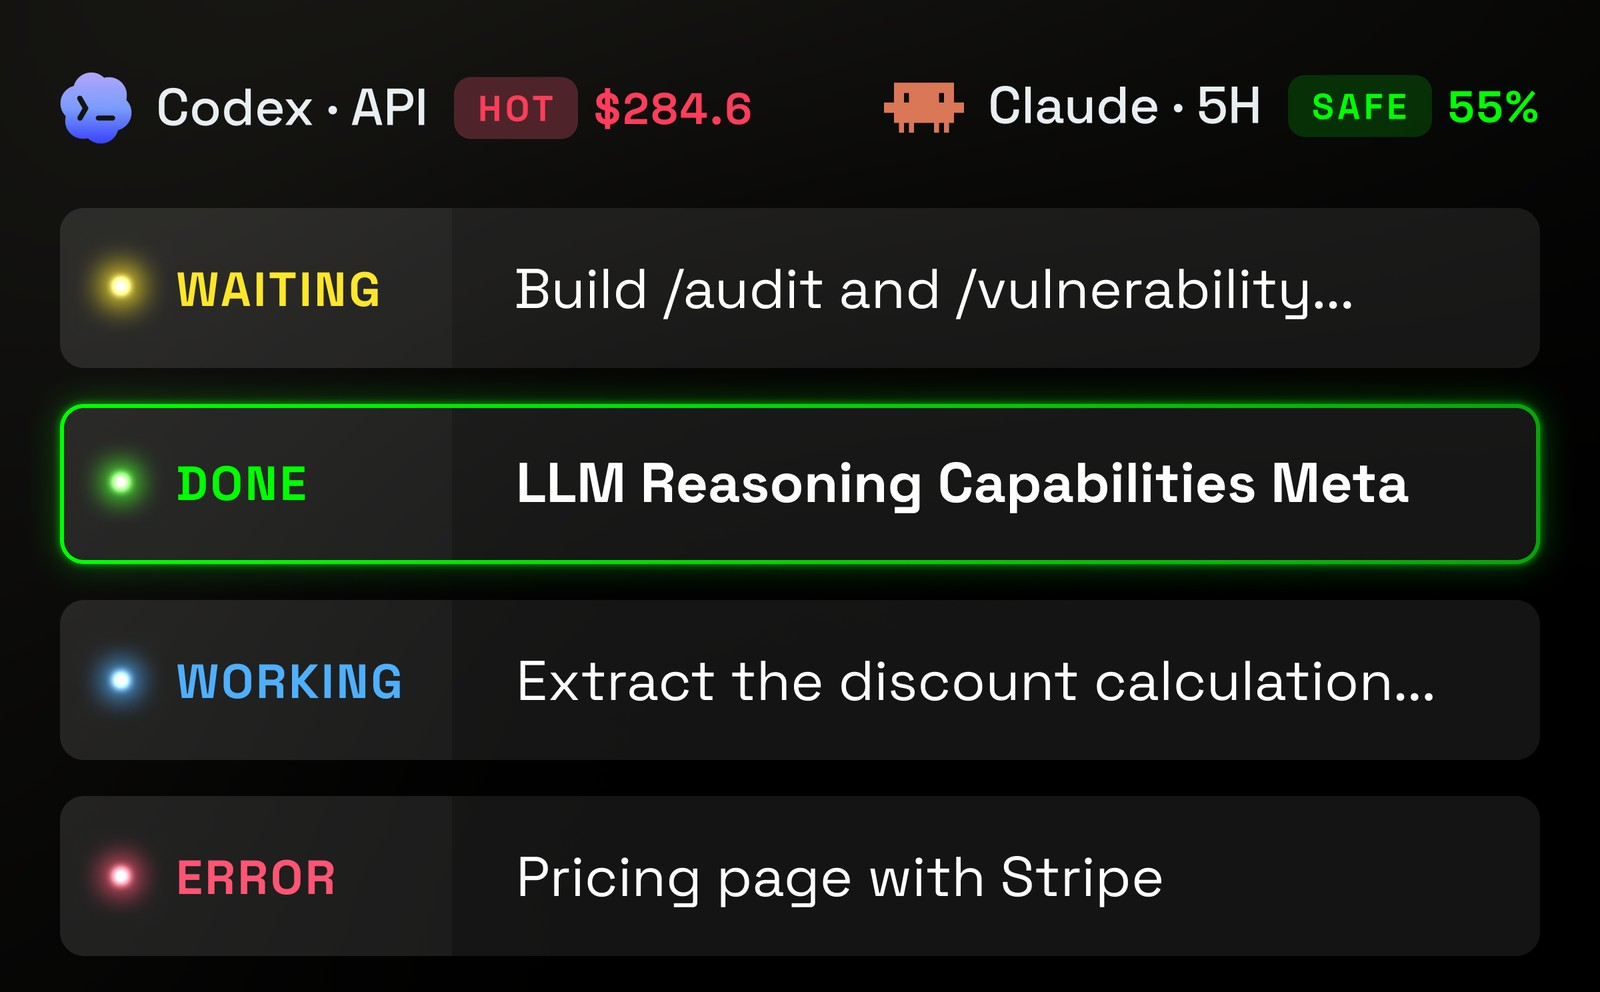
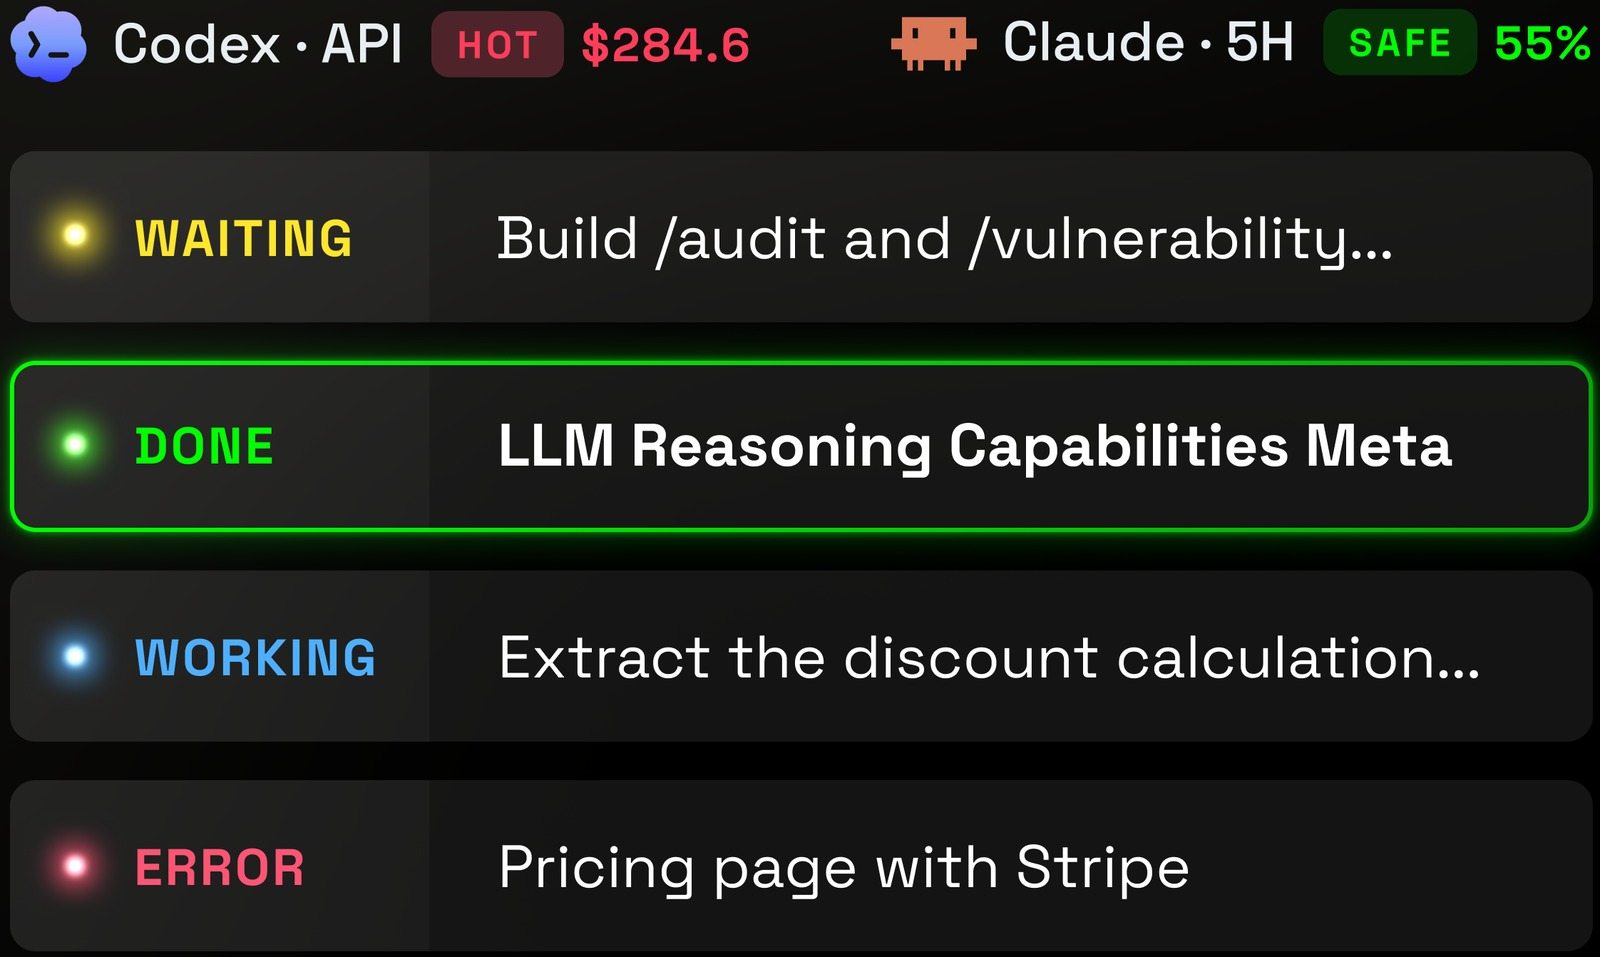
SlashVibe: rebuild the flow as a scrollable dark-theme state machine
- Overview: 666.png at its native 16:9, uncropped; Principles inherits
  the blue WORKING shot so the same render isn't used twice
- FIG.02: drop the green fill entirely, mark the SlashVibe column with
  weight instead so colour stays reserved for state semantics
- Rename 余光可读 → 余光感知 and 文字可读性 → 高易读性 (and the
  near-duplicate 余光感应 → 余光感知); FIG.07 column header follows
- Section 04 retitled 任务循环使用流程; the old sentence moves into
  the section intro
- Redraw the Mermaid flow as images/slashvibe-flow.svg in the page's
  own palette — the light dotted export would have clashed badly on a
  black page, and the flow's own legend is state-coloured anyway, so it
  now reuses WAITING/READY/ERROR/WORKING directly. Presented in a 4:3
  full-width frame that scrolls internally (overscroll-behavior:contain
  so it doesn't hijack page scroll), with a bottom fade and a hint.
- Anatomy: crop the dark panel baked into 图kk.png so no frame remains
- Section 08 retitled 详情页展示; 同一套骨架跑完全部状态 moves into
  the intro line

diff --git a/project-slashvibe.html b/project-slashvibe.html
@@ -295,24 +295,12 @@
     .sv-th-green { color: var(--sv-green) !important; }
 
     /* ── 表格变体：用面来分组，不用线（FIG.02 使用条件对照） ──
-       隔行填一层极淡背景代替分隔线；SLASHVIBE 列再叠一层淡绿，
-       让「这一列是我们」在扫视时先于文字被读出来。方形直角，不用圆角；
-       高亮用绝对定位的 ::before 铺底色，不动文字本身的位置。
-       inset 不做水平出血——出血会在手机堆叠视图里把背景推出容器右边缘，
-       跟其他行对不齐，所以直接贴文字自身的盒子，桌面 3 列、手机堆叠都一样对齐。 */
+       隔行填一层极淡背景代替分隔线；SLASHVIBE 那一列不再铺绿底，
+       改成加粗——重量本身就够把「这一列是我们」推到前面，
+       不用再借颜色，也就不会跟状态色语言抢意义。 */
     .sv-table--fill .sv-tr { border-bottom: 0; }
     .sv-table--fill .sv-tr:not(.sv-tr--head):nth-child(even) { background: rgba(255,255,255,0.03); }
-    .sv-table--fill .sv-tr--3:not(.sv-tr--head) > *:last-child {
-      position: relative;
-      z-index: 1;
-    }
-    .sv-table--fill .sv-tr--3:not(.sv-tr--head) > *:last-child::before {
-      content: '';
-      position: absolute;
-      inset: 0;
-      background: rgba(110, 255, 75, 0.05);
-      z-index: -1;
-    }
+    .sv-table--fill .sv-tr--3:not(.sv-tr--head) > *:last-child { font-weight: 600; }
     .sv-key {
       display: flex;
       align-items: center;
@@ -368,6 +356,59 @@
       letter-spacing: 0.08em;
       text-align: right;
       color: var(--sv-faint);
+    }
+
+    /* ── 流程图取景框 ──
+       完整流程图很长（约 2.2 倍页宽），全铺出来会把整节撑散。
+       所以固定成 4:3 的取景框，鼠标移进去滚动看全图，
+       页面本身的滚动不受影响（overscroll-behavior 挡住滚动链）。 */
+    .sv-flowframe {
+      position: relative;
+      margin-top: 40px;
+      aspect-ratio: 4 / 3;
+      overflow-y: auto;
+      overflow-x: hidden;
+      overscroll-behavior: contain;
+      border: 1px solid rgba(255, 255, 255, 0.14);
+      border-radius: 18px;
+      background: #0d0d0d;
+      scrollbar-width: thin;
+      scrollbar-color: rgba(255,255,255,0.22) transparent;
+    }
+    .sv-flowframe::-webkit-scrollbar { width: 8px; }
+    .sv-flowframe::-webkit-scrollbar-track { background: transparent; }
+    .sv-flowframe::-webkit-scrollbar-thumb {
+      background: rgba(255, 255, 255, 0.18);
+      border-radius: 4px;
+    }
+    .sv-flowframe:hover::-webkit-scrollbar-thumb { background: rgba(255, 255, 255, 0.3); }
+    .sv-flowframe img {
+      display: block;
+      width: 100%;
+      height: auto;
+    }
+    /* 取景框底部的渐隐，暗示「下面还有」 */
+    .sv-flowwrap { position: relative; }
+    .sv-flowwrap::after {
+      content: '';
+      position: absolute;
+      left: 1px; right: 9px; bottom: 1px;
+      height: 64px;
+      border-radius: 0 0 17px 17px;
+      background: linear-gradient(to bottom, rgba(13,13,13,0), rgba(13,13,13,0.92));
+      pointer-events: none;
+    }
+    .sv-flowhint {
+      position: absolute;
+      right: 22px;
+      bottom: 16px;
+      z-index: 2;
+      font-family: var(--sv-mono);
+      font-size: 10px;
+      letter-spacing: 0.14em;
+      text-transform: uppercase;
+      color: var(--sv-faint);
+      pointer-events: none;
     }
 
     /* ── 图片 ── */
@@ -729,7 +770,7 @@
         </div>
 
         <div class="sv-photo" style="margin-top:36px">
-          <img src="images/slashvibe-team.jpg" alt="SlashVibe 真机：WORKING 状态在屏幕上展示思考过程" width="1800" height="1226" loading="lazy" />
+          <img src="images/slashvibe-team.jpg" alt="SlashVibe 真机：Mission Board 上同时显示 WAITING / DONE / WORKING / ERROR 四种状态" width="1920" height="1080" loading="lazy" />
         </div>
       </div>
     </div>
@@ -752,7 +793,7 @@
             <div class="sv-path-item"><span>01</span><span data-i18n-zh="问题：并行 Agent 的注意力税" data-i18n-en="The problem: the attention tax of parallel agents">问题：并行 Agent 的注意力税</span></div>
             <div class="sv-path-item"><span>02</span><span data-i18n-zh="硬件给的三条约束，与真机验证" data-i18n-en="Three constraints from hardware, tested on the real device">硬件给的三条约束，与真机验证</span></div>
             <div class="sv-path-item"><span>03</span><span data-i18n-zh="三条原则（后面所有分歧的裁判）" data-i18n-en="Three principles—the referee for everything that follows">三条原则（后面所有分歧的裁判）</span></div>
-            <div class="sv-path-item"><span>04</span><span data-i18n-zh="一个回合：从口述到点头" data-i18n-en="One round: from speaking to nodding">一个回合：从口述到点头</span></div>
+            <div class="sv-path-item"><span>04</span><span data-i18n-zh="任务循环使用流程（含完整状态机）" data-i18n-en="The task loop, with the full state machine">任务循环使用流程（含完整状态机）</span></div>
             <div class="sv-path-item"><span>05</span><span data-i18n-zh="按键映射矩阵" data-i18n-en="The key-mapping matrix">按键映射矩阵</span></div>
           </div>
         </div>
@@ -764,7 +805,7 @@
           <div class="sv-path-list">
             <div class="sv-path-item"><span>06</span><span data-i18n-zh="Mission Board 版式解剖" data-i18n-en="Anatomy of the Mission Board">Mission Board 版式解剖</span></div>
             <div class="sv-path-item"><span>07</span><span data-i18n-zh="两个设计决策，都是用原则判出来的" data-i18n-en="Two decisions, both settled by the principles">两个设计决策，都是用原则判出来的</span></div>
-            <div class="sv-path-item"><span>08</span><span data-i18n-zh="界面全集：一套骨架跑完所有状态" data-i18n-en="Every screen: one skeleton, every state">界面全集：一套骨架跑完所有状态</span></div>
+            <div class="sv-path-item"><span>08</span><span data-i18n-zh="详情页展示：一套骨架跑完所有状态" data-i18n-en="The Task Window: one skeleton, every state">详情页展示：一套骨架跑完所有状态</span></div>
           </div>
           <div class="sv-path-head" style="margin-top:36px">
             <span class="sv-path-part" style="color:var(--sv-faint)">END</span>
@@ -872,7 +913,7 @@
           <div class="sv-tr sv-tr--3 sv-tr--head">
             <span data-i18n-zh="条件" data-i18n-en="Condition">条件</span>
             <span data-i18n-zh="手机" data-i18n-en="Phone">手机</span>
-            <span class="sv-th-green">SLASHVIBE</span>
+            <span>SLASHVIBE</span>
           </div>
           <div class="sv-tr sv-tr--3">
             <span data-i18n-zh="注视方式" data-i18n-en="How it's looked at">注视方式</span>
@@ -897,7 +938,7 @@
           <div class="sv-tr sv-tr--3">
             <span data-i18n-zh="分组方式" data-i18n-en="Grouping">分组方式</span>
             <span class="sv-td-dim" data-col="PHONE" data-i18n-zh="用容器" data-i18n-en="With containers">用容器</span>
-            <span class="sv-td-green" data-col="SLASHVIBE" data-i18n-zh="用间距与颜色" data-i18n-en="With spacing and colour">用间距与颜色</span>
+            <span data-col="SLASHVIBE" data-i18n-zh="用间距与颜色" data-i18n-en="With spacing and colour">用间距与颜色</span>
           </div>
         </div>
         <p class="sv-caption" data-i18n-zh="现场验证得到的三个结论：颜色比文字先到达；屏效等于信息密度；夜间是常态工况。" data-i18n-en="Three conclusions from testing on the real device: colour arrives before text; screen efficiency is information density; night is the normal operating condition.">现场验证得到的三个结论：颜色比文字先到达；屏效等于信息密度；夜间是常态工况。</p>
@@ -914,7 +955,7 @@
       <div class="sv-cards">
         <div>
           <span class="sv-tag sv-tag--green">P—01</span>
-          <div class="sv-principle-name" data-i18n-zh="余光可读" data-i18n-en="Readable at a glance">余光可读</div>
+          <div class="sv-principle-name" data-i18n-zh="余光感知" data-i18n-en="Peripheral awareness">余光感知</div>
           <div class="sv-card-desc" data-i18n-zh="状态由颜色承担，内容由白字承担。不读字也能判断要不要现在管它。" data-i18n-en="Colour carries state, white text carries content. You can decide whether it needs you now without reading a word.">状态由颜色承担，内容由白字承担。不读字也能判断要不要现在管它。</div>
         </div>
         <div>
@@ -930,7 +971,7 @@
       </div>
 
       <div class="sv-photo" style="margin-top:48px">
-        <img src="images/slashvibe-principles.jpg" alt="SlashVibe 真机：屏幕上同时显示 WAITING / DONE / WORKING / ERROR 四种状态色行" width="1920" height="854" loading="lazy" />
+        <img src="images/slashvibe-principles.jpg" alt="SlashVibe 真机：WORKING 状态，蓝色低调不动，明确表示现在不用管" width="1920" height="854" loading="lazy" />
       </div>
     </div>
   </section>
@@ -938,8 +979,9 @@
   <!-- ⑧ 一个回合 -->
   <section class="pd-section">
     <div class="container">
-      <span class="pd-section-label"><span class="sv-num">04</span>One Round</span>
-      <h2 class="pd-section-title" data-i18n-zh="一个回合：从口述到点头，手不离桌" data-i18n-en="One Round: From Speaking to Nodding, Hands Never Leave the Desk">一个回合：从口述到点头，手不离桌</h2>
+      <span class="pd-section-label"><span class="sv-num">04</span>Task Loop</span>
+      <h2 class="pd-section-title" data-i18n-zh="任务循环使用流程" data-i18n-en="The Task Loop">任务循环使用流程</h2>
+      <p class="pd-body" data-i18n-zh="一个回合：从口述到点头，手不离桌。下面先看五步的骨架，再看完整状态机——WAITING / READY / ERROR 三条分支最终都汇回同一个语音输入口。" data-i18n-en="One round: from speaking to nodding, hands never leaving the desk. The five-step skeleton comes first, then the full state machine—where the WAITING / READY / ERROR branches all converge back on the same voice input.">一个回合：从口述到点头，手不离桌。下面先看五步的骨架，再看完整状态机——WAITING / READY / ERROR 三条分支最终都汇回同一个语音输入口。</p>
 
       <div class="sv-cards sv-cards--2" style="margin-bottom:48px">
         <div>
@@ -981,6 +1023,17 @@
         <span class="sv-step-name" data-i18n-zh="收尾或纠错" data-i18n-en="Finish, or fix">收尾或纠错</span>
         <span class="sv-step-desc" data-i18n-zh="绿色安静收尾；红色把堆栈直接呈现，不必回终端翻日志。" data-i18n-en="Green closes quietly; red puts the stack trace right there, so you never go back to the terminal to dig through logs.">绿色安静收尾；红色把堆栈直接呈现，不必回终端翻日志。</span>
         <span class="sv-step-tag">DONE / ERROR</span>
+      </div>
+
+      <div style="margin-top:72px">
+        <span class="sv-fig">FIG.05 — 完整任务状态机</span>
+        <div class="sv-flowwrap">
+          <div class="sv-flowframe">
+            <img src="images/slashvibe-flow.svg" alt="SlashVibe 完整任务状态机：从开机到语音输入回到 WORKING 的全流程，含 WAITING / READY / ERROR 三条分支" width="1180" height="2560" loading="lazy" />
+          </div>
+          <span class="sv-flowhint" data-i18n-zh="框内可滚动 ↕" data-i18n-en="Scroll inside ↕">框内可滚动 ↕</span>
+        </div>
+        <p class="sv-caption" data-i18n-zh="T0 开机到 T15 回到 WORKING 的完整状态机。颜色沿用产品自己的状态语言：黄 = 等你、绿 = 就绪、红 = 出错、蓝 = 在跑，紫 = 用户操作页，灰 = 系统自动事件。" data-i18n-en="The full state machine from T0 boot to T15 back in WORKING. Colours reuse the product's own state language: yellow waits on you, green is ready, red has failed, blue is running; purple marks user-facing pages and grey marks automatic system events.">T0 开机到 T15 回到 WORKING 的完整状态机。颜色沿用产品自己的状态语言：黄 = 等你、绿 = 就绪、红 = 出错、蓝 = 在跑，紫 = 用户操作页，灰 = 系统自动事件。</p>
       </div>
     </div>
   </section>
@@ -1059,7 +1112,7 @@
 
       <div class="sv-anatomy">
         <div>
-          <img class="sv-render" src="images/slashvibe-board.jpg" alt="Mission Board 定稿：左列状态词，右列会话标题" width="1600" height="992" loading="lazy" />
+          <img class="sv-render" src="images/slashvibe-board.jpg" alt="Mission Board 定稿：左列状态词，右列会话标题" width="1600" height="957" loading="lazy" />
         </div>
         <div>
           <p style="font-size:15px; line-height:1.85; color:var(--sv-dim)" data-i18n-zh="左列固定宽度只放状态词，右列放内容——两列一刀切开，颜色在余光里连成一条竖带。人扫过去看的是「有没有黄和红」，而不是逐行阅读。" data-i18n-en="A fixed-width left column holds nothing but the state word; the right column holds content. Cut cleanly in two, the colours join into a vertical band in peripheral vision. What you scan for is whether there is any yellow or red—not a row-by-row read.">左列固定宽度只放状态词，右列放内容——两列一刀切开，颜色在余光里连成一条竖带。人扫过去看的是「有没有黄和红」，而不是逐行阅读。</p>
@@ -1104,12 +1157,12 @@
       <div class="sv-cards" style="margin-bottom:48px">
         <div>
           <span class="sv-tag sv-tag--green" data-i18n-zh="判据 01" data-i18n-en="Test 01">判据 01</span>
-          <div class="sv-card-title" data-i18n-zh="余光感应" data-i18n-en="Peripheral pickup">余光感应</div>
+          <div class="sv-card-title" data-i18n-zh="余光感知" data-i18n-en="Peripheral awareness">余光感知</div>
           <div class="sv-card-desc" data-i18n-zh="不看屏也要察觉有事发生——颜色够明显、位置固定。" data-i18n-en="You notice something happened without looking—colour is loud enough, position never moves.">不看屏也要察觉有事发生——颜色够明显、位置固定。</div>
         </div>
         <div>
           <span class="sv-tag sv-tag--green" data-i18n-zh="判据 02" data-i18n-en="Test 02">判据 02</span>
-          <div class="sv-card-title" data-i18n-zh="文字可读性" data-i18n-en="Text legibility">文字可读性</div>
+          <div class="sv-card-title" data-i18n-zh="高易读性" data-i18n-en="High legibility">高易读性</div>
           <div class="sv-card-desc" data-i18n-zh="任务标题一律白色。彩色标题在深色屏上牺牲阅读速度。" data-i18n-en="Task titles are always white. Coloured titles cost reading speed on a dark screen.">任务标题一律白色。彩色标题在深色屏上牺牲阅读速度。</div>
         </div>
         <div>
@@ -1143,7 +1196,7 @@
         <div class="sv-tr sv-tr--5 sv-tr--head">
           <span data-i18n-zh="候选" data-i18n-en="Candidate">候选</span>
           <span data-i18n-zh="余光" data-i18n-en="Glance">余光</span>
-          <span data-i18n-zh="可读性" data-i18n-en="Legibility">可读性</span>
+          <span data-i18n-zh="易读性" data-i18n-en="Legibility">易读性</span>
           <span data-i18n-zh="屏效" data-i18n-en="Efficiency">屏效</span>
           <span data-i18n-zh="结论" data-i18n-en="Verdict">结论</span>
         </div>
@@ -1208,8 +1261,8 @@
   <section class="pd-section">
     <div class="container">
       <span class="pd-section-label"><span class="sv-num">08</span>Screens</span>
-      <h2 class="pd-section-title" data-i18n-zh="同一套骨架跑完全部状态" data-i18n-en="One Skeleton, Every State">同一套骨架跑完全部状态</h2>
-      <p class="pd-body" data-i18n-zh="顶部状态条、中部内容、底部动作提示——结构不变，状态只改颜色。从任何一屏切到另一屏都不用重新找位置。" data-i18n-en="A status bar on top, content in the middle, action hints at the bottom—the structure never moves, only the colour changes with state. Switching between any two screens costs no re-orientation.">顶部状态条、中部内容、底部动作提示——结构不变，状态只改颜色。从任何一屏切到另一屏都不用重新找位置。</p>
+      <h2 class="pd-section-title" data-i18n-zh="详情页展示" data-i18n-en="The Task Window">详情页展示</h2>
+      <p class="pd-body" data-i18n-zh="同一套骨架跑完全部状态：顶部状态条、中部内容、底部动作提示——结构不变，状态只改颜色。从任何一屏切到另一屏都不用重新找位置。" data-i18n-en="One skeleton, every state: a status bar on top, content in the middle, action hints at the bottom—the structure never moves, only the colour changes with state. Switching between any two screens costs no re-orientation.">同一套骨架跑完全部状态：顶部状态条、中部内容、底部动作提示——结构不变，状态只改颜色。从任何一屏切到另一屏都不用重新找位置。</p>
 
       <div class="sv-screens">
         <div class="sv-screen">
@@ -1253,7 +1306,7 @@
         </div>
         <div>
           <span class="sv-tag sv-tag--green" data-i18n-zh="上线后想验证" data-i18n-en="To validate after launch">上线后想验证</span>
-          <p class="sv-end-item" data-i18n-zh="WAITING 出现到用户响应的时间——「余光可读」是否成立的唯一硬指标。" data-i18n-en="Time from WAITING appearing to the user responding—the only hard measure of whether &quot;readable at a glance&quot; actually holds.">WAITING 出现到用户响应的时间——「余光可读」是否成立的唯一硬指标。</p>
+          <p class="sv-end-item" data-i18n-zh="WAITING 出现到用户响应的时间——「余光感知」是否成立的唯一硬指标。" data-i18n-en="Time from WAITING appearing to the user responding—the only hard measure of whether &quot;peripheral awareness&quot; actually holds.">WAITING 出现到用户响应的时间——「余光感知」是否成立的唯一硬指标。</p>
           <p class="sv-end-item" data-i18n-zh="A–E 预置选项的采纳率，以及「Others 回桌面输入」的触发比例：它决定语音层要不要再往前一步。" data-i18n-en="Take-up of the preset A–E options, and how often &quot;Others, type on the desktop&quot; gets triggered—that decides whether the voice layer needs to go one step further.">A–E 预置选项的采纳率，以及「Others 回桌面输入」的触发比例：它决定语音层要不要再往前一步。</p>
         </div>
       </div>
